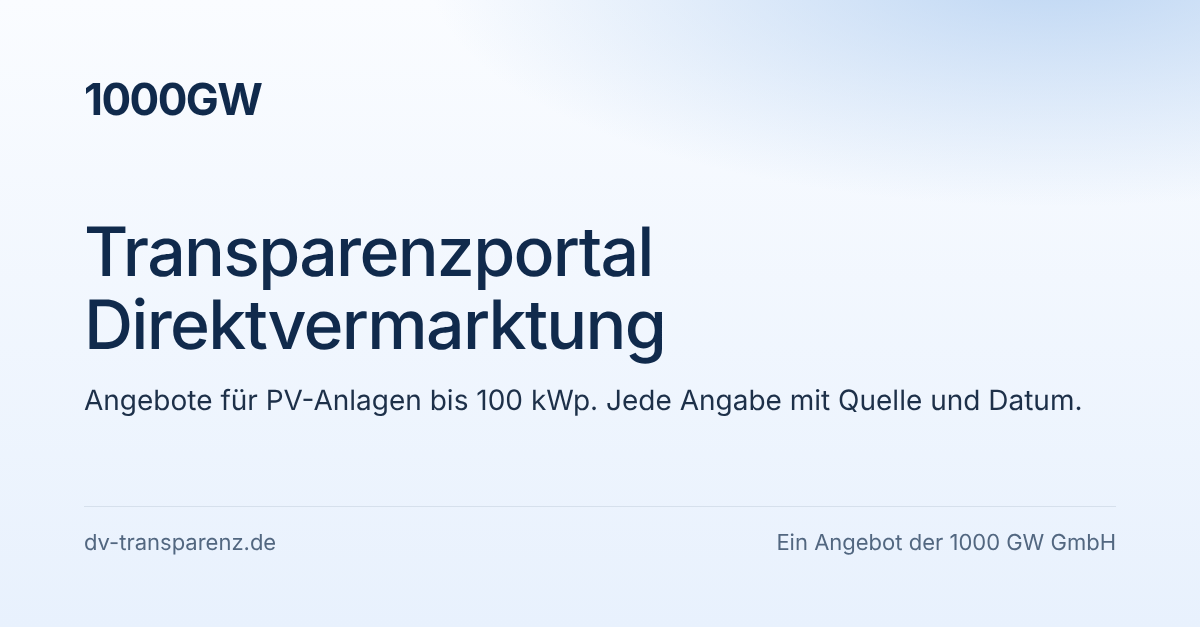
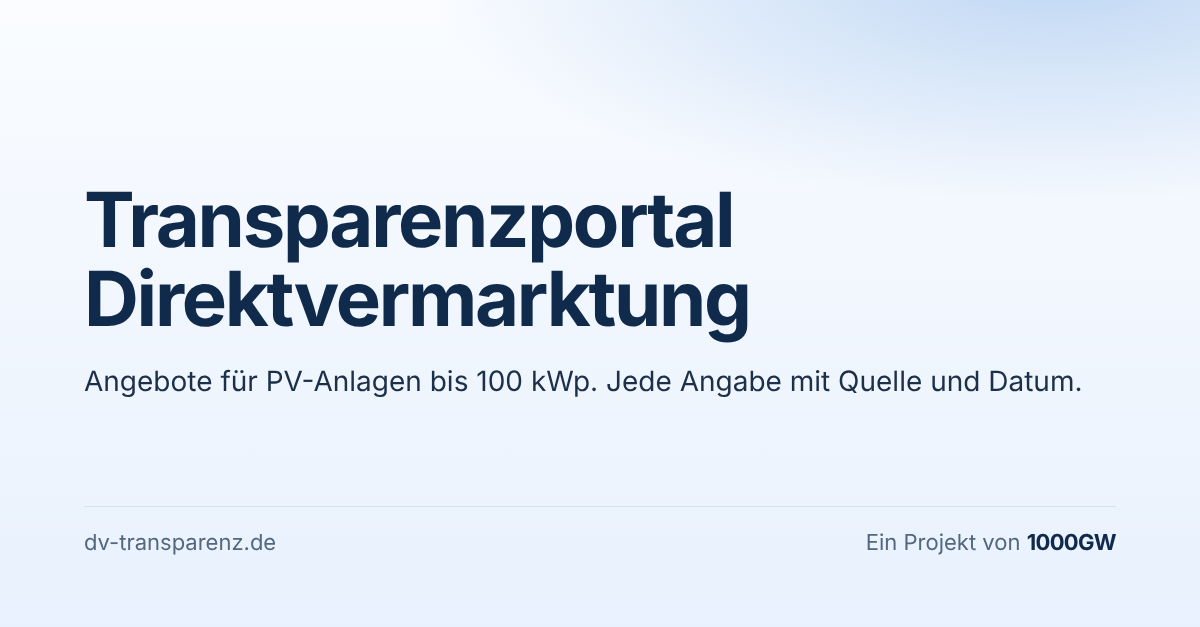
Branding: Transparenzportal Direktvermarktung als Hauptmarke, 1000GW als Absender
Kopf und Fuß zeigen die Wortmarke des Portals; darunter „Ein Projekt von 1000GW“
(Fuß: „Ein Projekt der 1000 GW GmbH“). Neues Favicon „DV“, Vorschaubild neu.
Absender in site.config.json unter projektVon, für eine spätere Ausgründung an einer Stelle änderbar.

Claude-Session: https://claude.ai/code/session_018jn3ogGyk1tvgE65ZyrizJ

Changed region(s): [[0.0617, 0.303, 0.8942, 0.6667], [0.0617, 0.1212, 0.2158, 0.1818], [0.6475, 0.8485, 0.925, 0.8788]]

diff --git a/src/style.css b/src/style.css
@@ -1,4 +1,4 @@
-/* 1000GW · Transparenzportal Direktvermarktung
+/* Transparenzportal Direktvermarktung · ein Projekt von 1000GW
    Farben und Typografie nach Startpaket v6, Analysepalette 01 Solar & Graphit */
 
 @font-face { font-family: "Inter"; font-weight: 400; font-style: normal; font-display: swap; src: url("fonts/inter-400.woff") format("woff"); }
@@ -90,9 +90,12 @@ td.meta { display: table-cell; }
 /* Kopf */
 .kopf { background: var(--weiss); border-bottom: 1px solid var(--linie); position: sticky; top: 0; z-index: 5; }
 .kopf-innen { display: flex; align-items: center; justify-content: space-between; gap: 24px; min-height: 72px; }
-.marke { display: flex; align-items: center; gap: 14px; text-decoration: none; color: var(--navy); min-width: 0; }
-.wortmarke { font-weight: 700; font-size: 26px; letter-spacing: -0.035em; color: var(--navy); line-height: 1; }
-.portal { font-size: var(--fs-nav); color: var(--navy); padding-left: 14px; border-left: 1px solid var(--linie); line-height: 1.25; }
+.marke { display: flex; flex-direction: column; align-items: flex-start; gap: 5px; text-decoration: none; color: var(--navy); min-width: 0; }
+.portalmarke { font-weight: 700; font-size: 22px; letter-spacing: -0.025em; color: var(--navy); line-height: 1.1; }
+.portalmarke span { white-space: nowrap; }
+.traeger { font-size: 12.5px; color: var(--blaugrau); line-height: 1; letter-spacing: 0.005em; }
+.traeger-marke { font-weight: 700; color: var(--navy); letter-spacing: -0.03em; }
+.marke:hover .portalmarke { color: var(--kobalt); }
 .nav { display: flex; gap: 28px; }
 .nav a { color: var(--tinte); text-decoration: none; font-size: var(--fs-nav); padding: 6px 0; border-bottom: 2px solid transparent; }
 .nav a:hover { color: var(--navy); border-bottom-color: var(--linie); }
@@ -101,8 +104,8 @@ td.meta { display: table-cell; }
 
 @media (max-width: 800px) {
   .kopf-innen { flex-wrap: wrap; min-height: 60px; gap: 12px; padding-top: 10px; padding-bottom: 10px; }
-  .wortmarke { font-size: 22px; }
-  .portal { font-size: 14px; padding-left: 10px; }
+  .portalmarke { font-size: 18px; }
+  .traeger { font-size: 12px; }
   .menue { display: block; }
   .nav { display: none; width: 100%; flex-direction: column; gap: 0; padding-bottom: 6px; }
   .nav.offen { display: flex; }
@@ -110,8 +113,8 @@ td.meta { display: table-cell; }
   .nav a[aria-current="page"] { border-bottom-color: var(--linie); font-weight: 600; }
 }
 @media (max-width: 480px) {
-  .marke { flex-direction: column; align-items: flex-start; gap: 3px; }
-  .portal { border-left: 0; padding-left: 0; font-size: 13px; color: var(--blaugrau); }
+  .kopf .portalmarke span { display: block; }
+  .marke { gap: 4px; }
 }
 
 /* Auftakt: heller Himmel ohne Bild */
@@ -296,8 +299,8 @@ blockquote { margin: 6px 0 0; padding: 2px 0 2px 12px; border-left: 2px solid va
 /* Fuß */
 .fuss { background: var(--navy); color: var(--himmel); padding: 48px 0 40px; font-size: var(--fs-meta); }
 .fuss-innen { display: grid; grid-template-columns: 1fr auto; gap: 24px 40px; align-items: start; }
-.fuss .wortmarke { color: var(--weiss); }
-.wortmarke-klein { font-size: 22px; display: inline-block; margin-bottom: 8px; }
+.fuss .portalmarke { color: var(--weiss); }
+.portalmarke-fuss { font-size: 20px; display: inline-block; margin-bottom: 8px; }
 .fuss p { margin: 0; }
 .fuss nav { display: flex; flex-wrap: wrap; gap: 8px 24px; }
 .fuss a { color: var(--weiss); text-decoration: none; }

diff --git a/scripts/assets.py b/scripts/assets.py
@@ -47,14 +47,15 @@ OG_HTML = """<!doctype html><html><head><meta charset="utf-8"><style>
 body{margin:0;width:1200px;height:627px;font-family:Inter;color:#102A4C;
 background:radial-gradient(900px 340px at 88% -5%,rgba(169,201,239,.75),transparent 70%),linear-gradient(180deg,#FAFCFF 0%,#E8F1FD 100%);
 display:flex;flex-direction:column;justify-content:space-between;padding:72px 84px;box-sizing:border-box}
-.w{font-weight:700;font-size:44px;letter-spacing:-.035em}
-h1{font-weight:500;font-size:68px;letter-spacing:-.025em;line-height:1.08;margin:0 0 22px;max-width:16ch}
+h1{font-weight:700;font-size:76px;letter-spacing:-.03em;line-height:1.04;margin:0 0 26px}
+h1 span{display:block}
+.t b{font-weight:700;color:#102A4C;letter-spacing:-.03em}
 p{font-size:28px;color:#1D3049;margin:0}
 .f{display:flex;justify-content:space-between;align-items:flex-end;font-size:22px;color:#526780;border-top:1px solid #D6E0EC;padding-top:22px}
 </style></head><body>
-<div class="w">1000GW</div>
+<div></div>
 <div><h1>PORTAL</h1><p>Angebote für PV-Anlagen bis 100 kWp. Jede Angabe mit Quelle und Datum.</p></div>
-<div class="f"><span>DOMAIN</span><span>Ein Angebot der BETREIBER</span></div>
+<div class="f"><span>DOMAIN</span><span class="t">Ein Projekt von <b>PROJEKTVON</b></span></div>
 </body></html>"""
 
 
@@ -63,9 +64,10 @@ async def vorschaubild():
     from playwright.async_api import async_playwright
     cfg = json.loads((ROOT / "site.config.json").read_text())
     html = (OG_HTML.replace("FONTS", FONTS.as_uri())
-            .replace("PORTAL", cfg["portalName"])
+            .replace("PORTAL", "".join(f"<span>{w}</span>" for w in cfg["portalName"].split()))
+            .replace("PROJEKTVON", cfg.get("projektVon") or cfg["betreiber"]["name"])
             .replace("DOMAIN", cfg["siteUrl"].replace("https://", ""))
-            .replace("BETREIBER", cfg["betreiber"]["name"]))
+            )
     with tempfile.NamedTemporaryFile("w", suffix=".html", delete=False) as f:
         f.write(html)
     async with async_playwright() as p:
